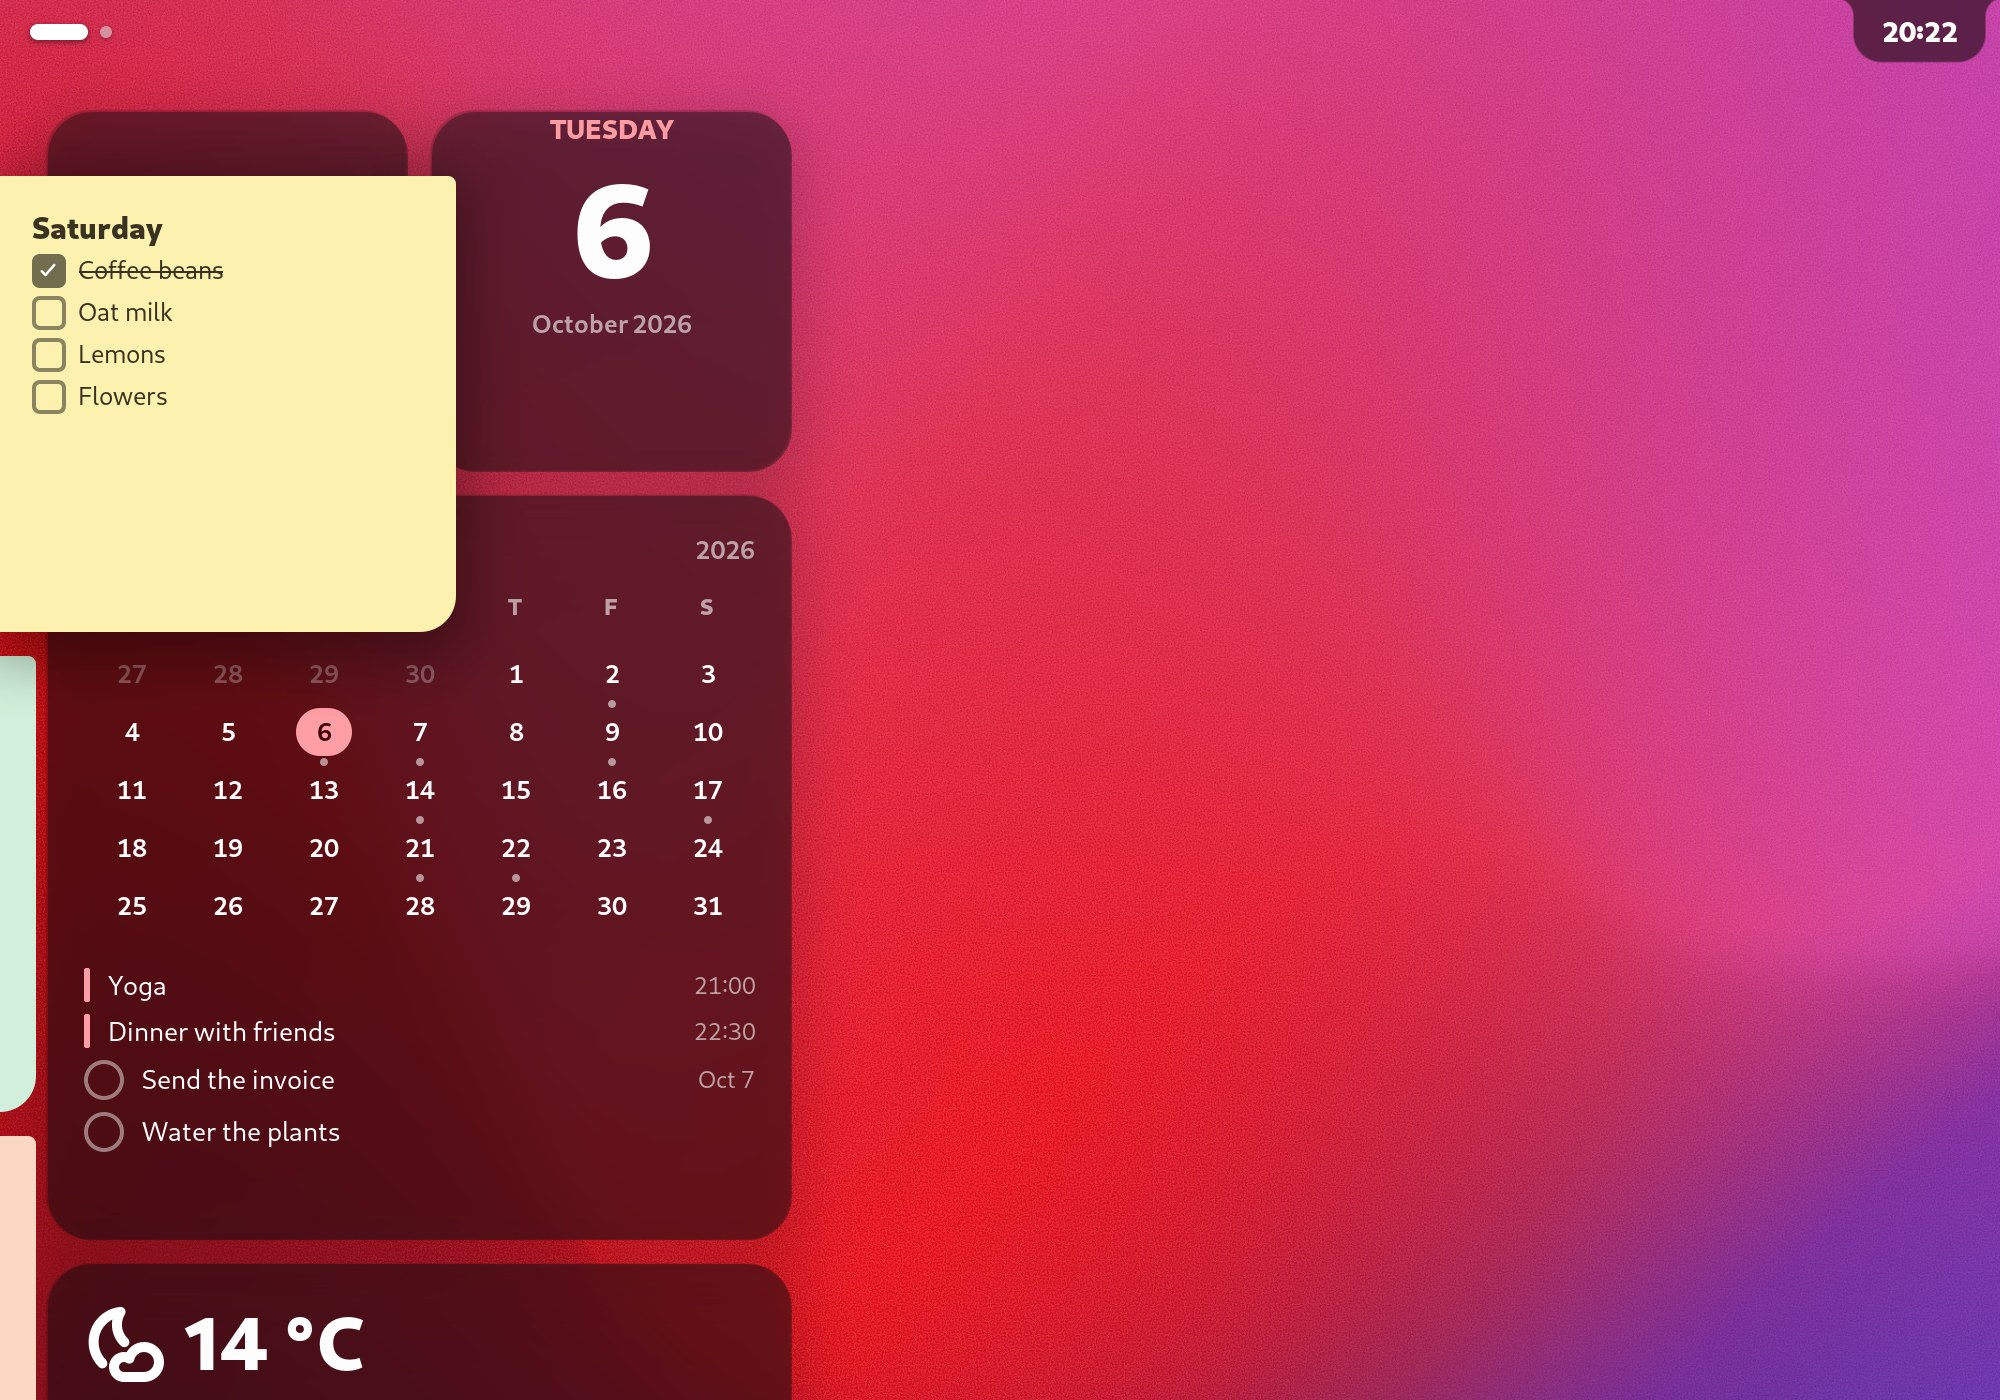
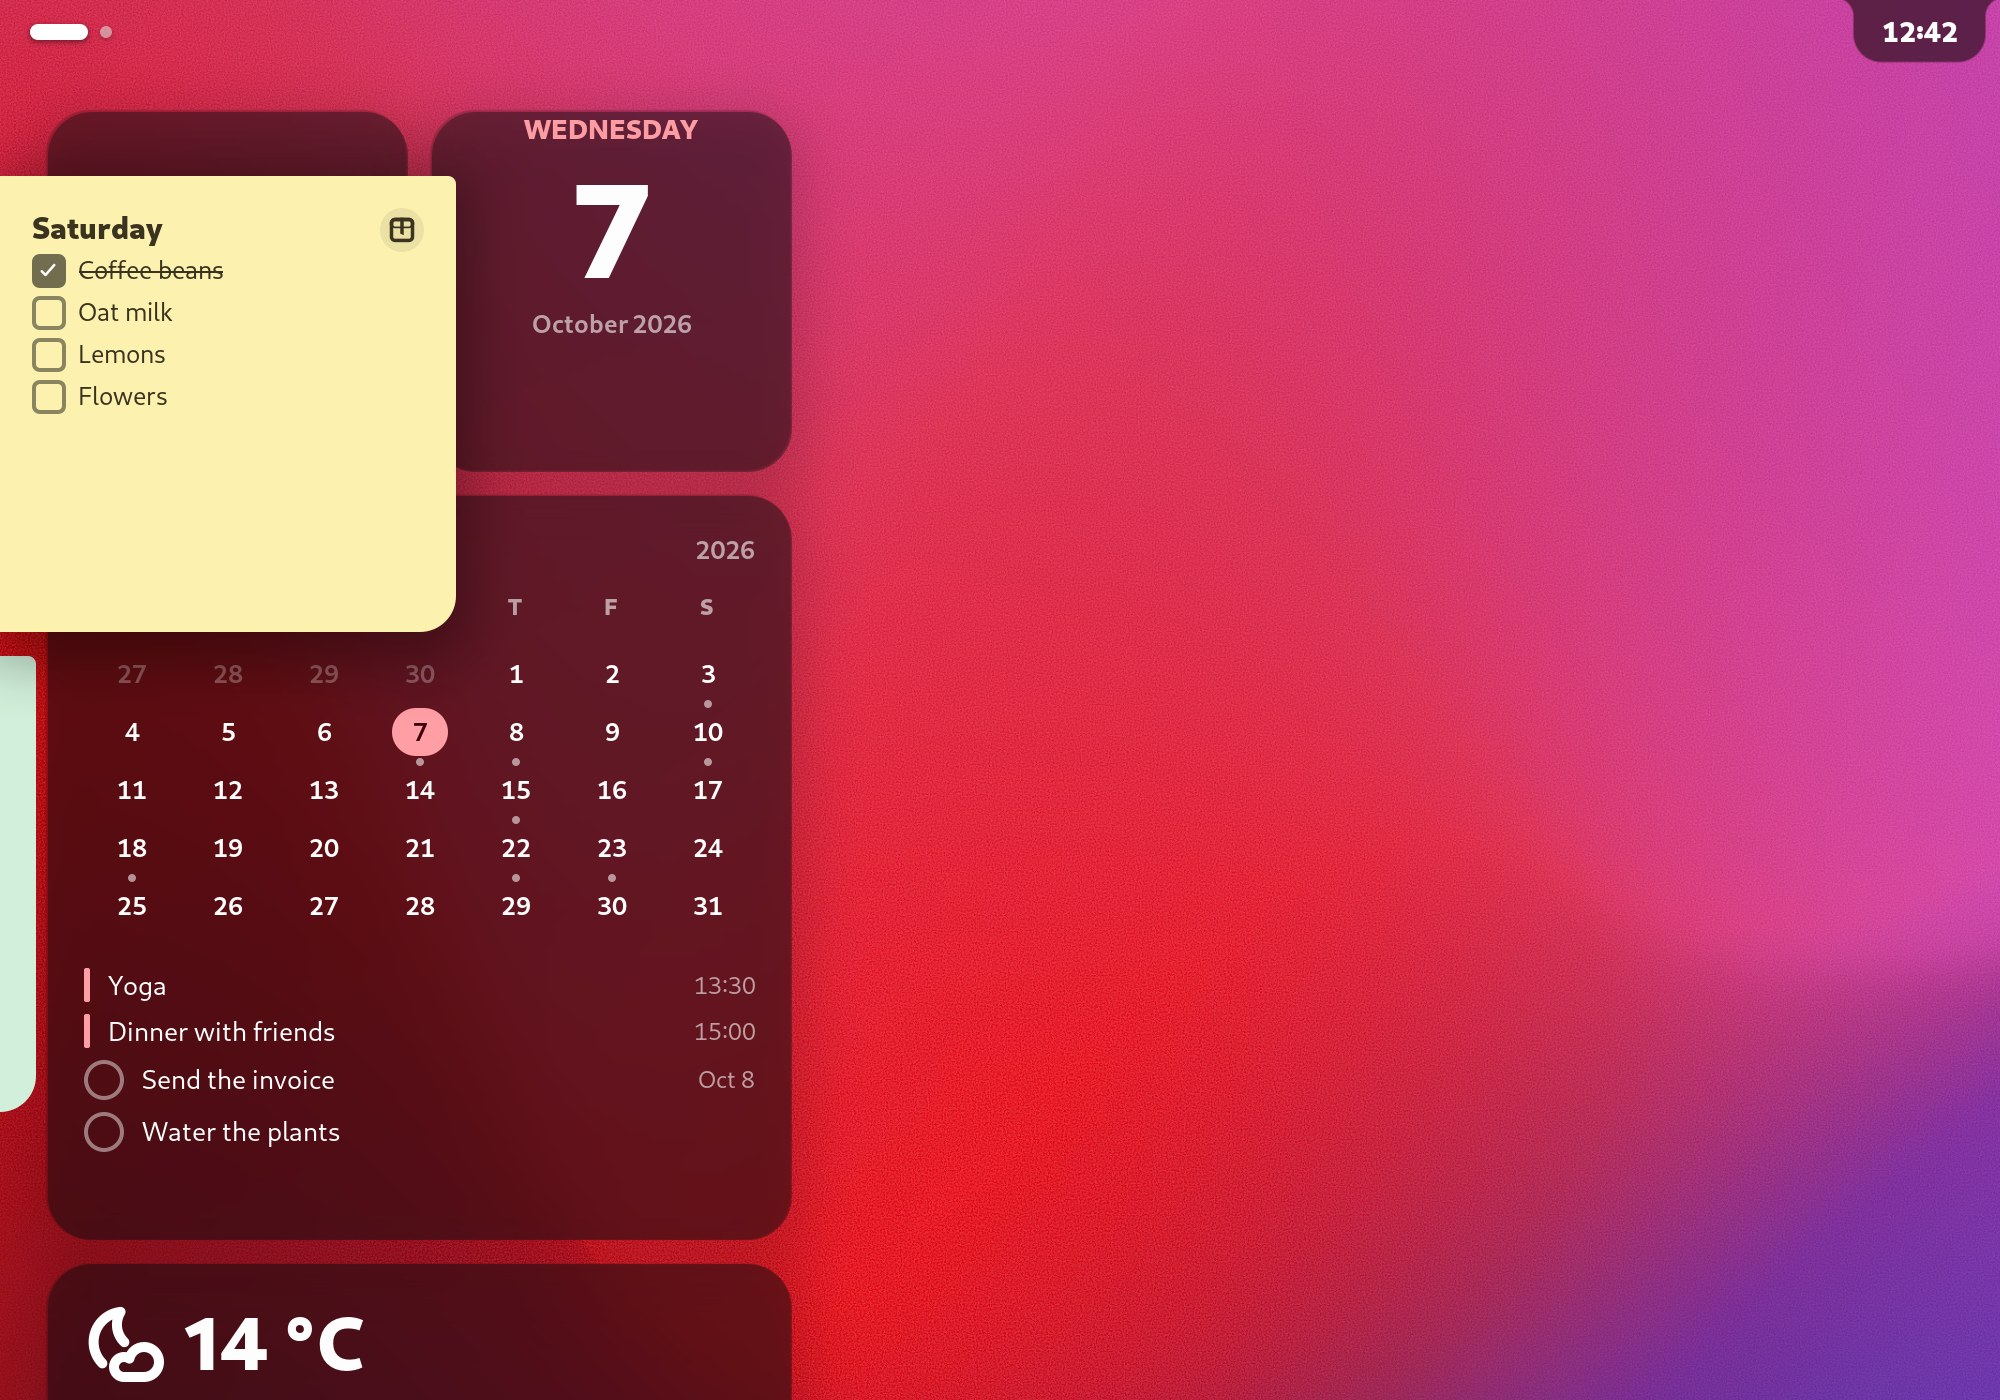
Show the edge notes' archive button in the README

diff --git a/README.md b/README.md
@@ -151,11 +151,12 @@ Blur my Shell blurs the bar, turn that off.)
   Switching workspaces, they slide along with the wallpaper.
 - **Notes**: square papers in seven colors with a title, text and checkboxes
   (a line starting with `- [ ]`), pinned to the left (or right) edge of the
-  main monitor – a strip of each peeks out, all of it under the pointer. A new
-  note (*New Note* in the desktop's menu, or the control centre's Notes tab)
-  drips from the island onto a sheet to write on, and so does a note you click;
-  <kbd>Ctrl</kbd>+<kbd>Enter</kbd> saves it. The Notes tab has them all, and an
-  archive. They are the same whatever the profile.
+  main monitor – a strip of each peeks out, all of it under the pointer, with
+  a button in its corner that puts it into the archive. A new note (*New Note*
+  in the desktop's menu, or the control centre's Notes tab) drips from the
+  island onto a sheet to write on, and so does a note you click;
+  <kbd>Ctrl</kbd>+<kbd>Enter</kbd> saves it. The Notes tab has them all, and
+  an archive. They are the same whatever the profile.
 - **Dock**: the pinned apps and those with windows on the workspace, at the
   bottom of the screen; it moves out of the way of windows, and the bottom
   edge brings it back. Dynamic Music Pill sits at its end. It stays off while
